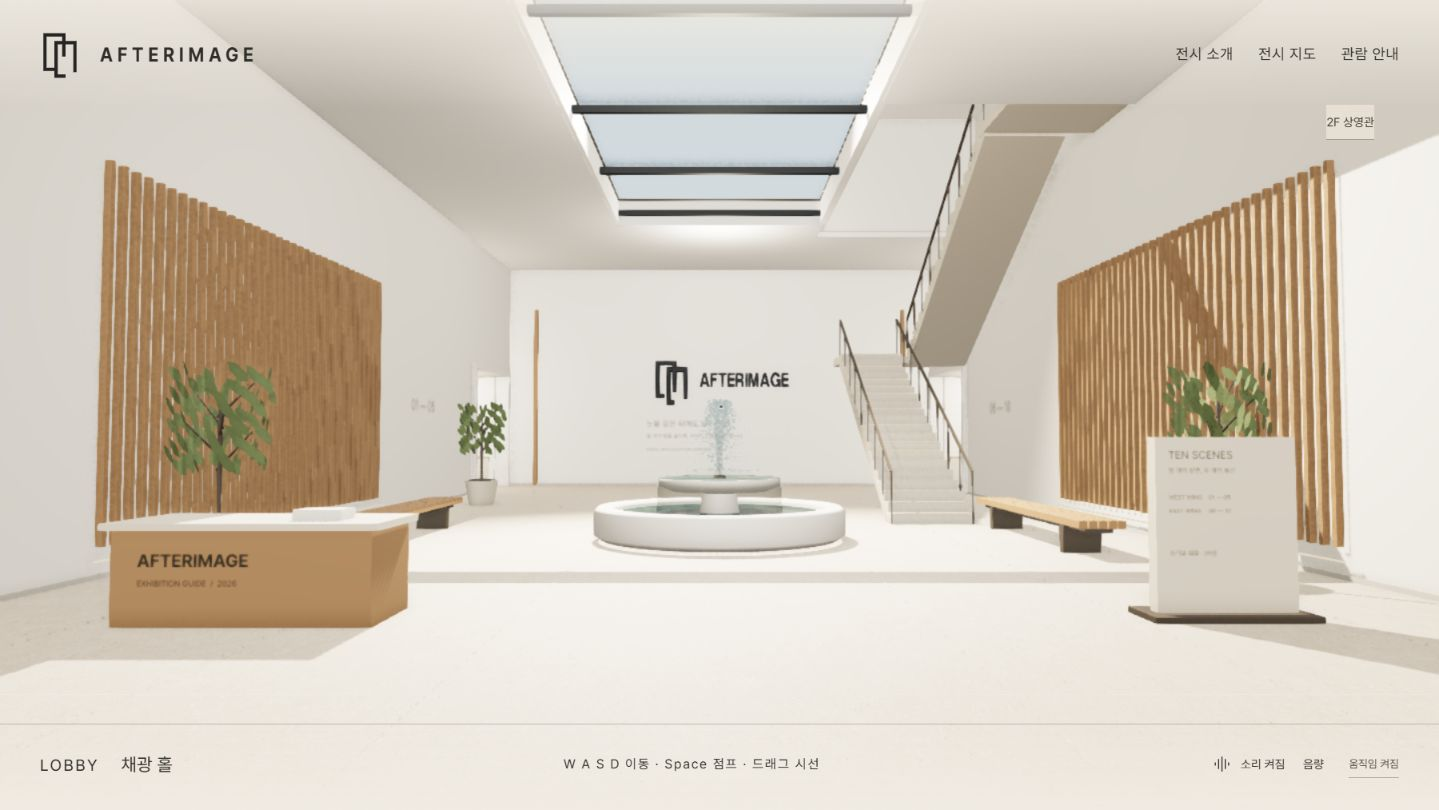
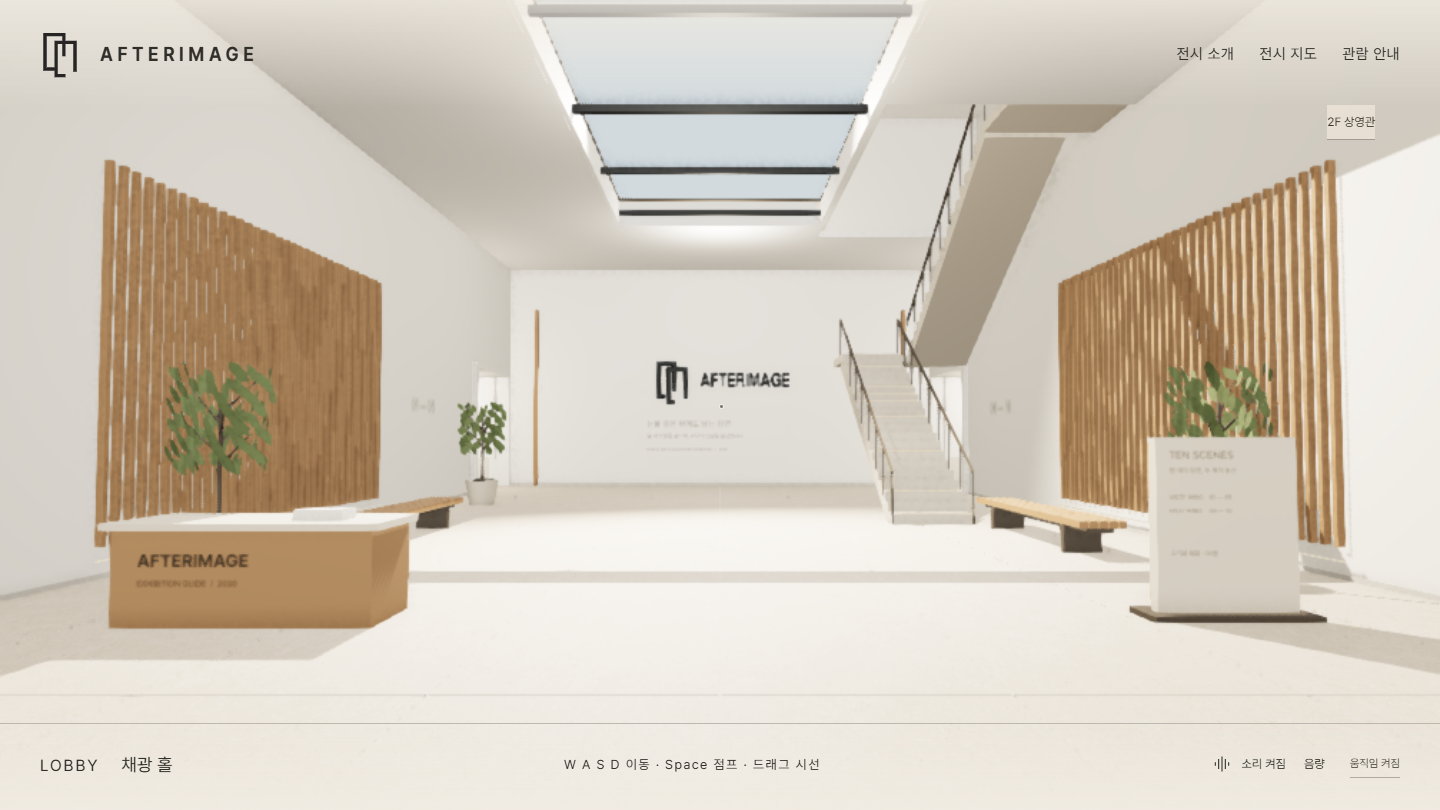
Remove lobby fountain and water ambience

diff --git a/src/Introduction.jsx b/src/Introduction.jsx
@@ -25,12 +25,12 @@ export default function Introduction({onClose,onEnter,onGo,ready,failed,sound}){
   <div className="case-top"><span>AFTERIMAGE</span><button onClick={onClose}>전시로 돌아가기</button></div>
   <nav className="case-index" aria-label="전시 제작 과정">{chapters.map((name,i)=><button key={name} onClick={()=>jump(i)} aria-current={active===i?'step':undefined}>{String(i+1).padStart(2,'0')} {name}</button>)}</nav>
   <div className="case-content">
-   <section className="case-cover" data-chapter="0"><h1>AFTERIMAGE</h1><div className="case-tagline"><b>잔상</b><p>눈을 감은 뒤에도 남는 열 개의 장면.</p></div><img className="case-wide" src={assetUrl('/process/atrium.png?v=lobby-fountain-v11')} alt="중앙의 흐르는 분수와 긴 천창, 목재 루버와 벤치, 식재와 안내 가구가 있는 실제 채광 홀" fetchPriority="high"/><div className="case-metadata"><span>3D WEB EXHIBITION</span><span>2026</span><span>기획 · 브랜딩 · 디자인 · 개발</span><button className="case-outline" disabled={!ready||failed} onClick={onEnter}>전시 입장</button></div><h2>웹을 읽는 대신, 공간을 걷다.</h2><p className="case-lead">채광 홀과 두 개의 전시 동, 열 개의 방과 스무 점의 작품, 2층의 상영관. 화면을 넘기는 대신 직접 걷고, 시선을 돌리고, 작품을 다른 각도에서 감상하는 디지털 전시입니다.</p></section>
+   <section className="case-cover" data-chapter="0"><h1>AFTERIMAGE</h1><div className="case-tagline"><b>잔상</b><p>눈을 감은 뒤에도 남는 열 개의 장면.</p></div><img className="case-wide" src={assetUrl('/process/atrium.png?v=open-atrium-v12')} alt="긴 천창 아래 열린 중앙 동선과 목재 루버, 벤치, 식재와 안내 가구가 있는 실제 채광 홀" fetchPriority="high"/><div className="case-metadata"><span>3D WEB EXHIBITION</span><span>2026</span><span>기획 · 브랜딩 · 디자인 · 개발</span><button className="case-outline" disabled={!ready||failed} onClick={onEnter}>전시 입장</button></div><h2>웹을 읽는 대신, 공간을 걷다.</h2><p className="case-lead">채광 홀과 두 개의 전시 동, 열 개의 방과 스무 점의 작품, 2층의 상영관. 화면을 넘기는 대신 직접 걷고, 시선을 돌리고, 작품을 다른 각도에서 감상하는 디지털 전시입니다.</p></section>
    <section className="case-section" data-chapter="1">{title(1,'BRIEF','작품만큼, 관람의 경험도.')}<div className="case-two"><p className="case-lead">감상의 깊이는 공간에서,<br/>경험의 밀도는 반응에서.</p><p>AFTERIMAGE는 가상의 디지털 아트와 입체 조형을 위한 웹 전시입니다. 관람자가 작품을 더 가까이, 다른 각도에서 보고 싶어지는 순간에 집중했습니다. 이동과 시선, 회전과 소리가 하나의 관람 흐름으로 이어지도록 설계했습니다.</p></div><div className="case-decisions">{[['평범한 탐색','직접 걷고 둘러보는 공간','W A S D와 모바일 조이스틱, 드래그 시선, 점프'],['수동적인 감상','내가 선택하는 작품의 각도','실제 3D 조각의 회전, 회화 확대'],['단절된 조작','입력과 움직임 사이의 여유','드래그 후 감속, 회전의 부드러운 시작과 정지'],['반복되는 장식','작품을 위한 담백한 인터페이스','프리텐다드, 직접적인 버튼 이름, 최소한의 선']].map(([before,after,how])=><div key={before}><span>{before}</span><b>{after}</b><p>{how}</p></div>)}</div><small className="case-note">설계 기준: 풍부한 반응, 작품과 연결된 아이덴티티, 누구나 이해할 수 있는 조작.</small></section>
    <section className="case-section" data-chapter="2">{title(2,'IDENTITY','겹쳐진 문, 남겨진 형태.')}<div className="case-two"><p className="case-lead">본 장면과 남은 장면 사이.<br/>두 개의 어긋난 문틀.</p><p>잔상을 겹친 프레임으로 표현했습니다. 화면의 마크, 워드마크와 공간의 입체 사인은 같은 형태를 공유합니다. 이미지와 3D 파일을 따로 내려받아 다른 매체에서도 사용할 수 있습니다.</p></div><div className="case-identity"><div><img src={assetUrl('/logo.svg')} alt="두 개의 어긋난 문틀과 AFTERIMAGE 워드마크"/><span>VECTOR / SVG</span></div><div className="case-logo-study"><Suspense fallback={<p>입체 로고 준비 중</p>}><LogoStudy/></Suspense><span>3D / 천천히 회전 · 드래그하여 감상</span></div></div><div className="case-downloads"><a href={assetUrl('/logo.svg')} download>SVG 로고 저장</a><a href={assetUrl('/logo.glb')} download>3D 로고 저장</a></div><div className="case-concept-pair"><img src={shot(0)} alt="실제로 구현된 두 문틀 조각" loading="lazy"/><p>다음 장면을 떠올리는 입구.<br/>로고와 조각을 하나의 공간 언어로 연결했습니다.</p></div></section>
    <section className="case-section" data-chapter="3">{title(3,'DESIGN SYSTEM','공간은 풍부하게, 화면은 차분하게.')}<div className="case-palette">{[['#181A19','Charcoal'],['#ECE5D8','Ivory / 벽'],['#D9D3C8','Limestone / 바닥'],['#C3A379','Bronze / 작품'],['#426393','Blue / 작품']].map(([hex,label])=><div key={hex}><i style={{background:hex}}/><span>{label}</span><small>{hex}</small></div>)}</div><div className="case-type"><div><span>TYPOGRAPHY</span><h3>Pretendard</h3><p>작품 설명과 조작 안내를 명확하게 전달하는 글꼴.</p></div><div><p style={{fontWeight:900}}>잔상 AFTERIMAGE <small>Black / 900</small></p><p style={{fontWeight:700}}>열 개의 장면 <small>Bold / 700</small></p><p>서두르지 않고, 원하는 방향으로. <small>Regular / 400</small></p></div></div><div className="case-component-study"><span>COMPONENTS IN USE</span><button className="entry" disabled={!ready||failed} onClick={onEnter}>전시 입장</button><button className="case-outline" disabled={!ready||failed} onClick={()=>onGo(selected)}>선택한 방 관람</button><button className="case-text" onClick={sound.toggle} aria-pressed={sound.enabled}>{sound.enabled?'소리 끄기':'소리 켜기'}</button></div></section>
-   <section className="case-section" data-chapter="4">{title(4,'EXPERIENCE','하나의 입구, 여러 방식의 관람.')}<ol className="case-flow"><li><span>01</span>전시 입장</li><li><span>02</span>걷기 · 둘러보기</li><li><span>03</span>작품 선택</li><li><span>04</span>조각 회전 · 회화 확대</li></ol><p className="case-flow-note">높은 천장의 채광 홀에서 01–05와 06–10 전시 동으로 이어집니다. 방의 크기와 높이를 달리하고, 꺾이는 복도를 지나 홀로 돌아오는 두 순환 동선으로 설계했습니다. 홀에는 물이 흐르는 석재 분수와 목재 루버, 벤치, 식재와 안내 가구를 두어 머무는 공간을 만들었습니다. 전시실에는 식재와 러그, 독서용 테이블과 조명, 도자기와 도록을 놓은 콘솔을 배치했습니다. 복도의 부조와 선반, 화분과 휴식 벤치가 방 사이의 경험을 이어줍니다. 홀의 계단실과 지붕이 있는 연결 통로를 지나면 2층 상영관으로 이어집니다. 벤치와 의자에서는 앉아 공간과 작품을 감상할 수 있습니다. 전시 지도에서는 원하는 방이나 작품, 상영관으로 바로 이동할 수 있습니다.</p><div className="case-room-preview"><div><ExhibitionPlan className="case-plan" selected={selected} onSelect={setSelected}/><div className="case-room-tabs" aria-label="미리 볼 전시실">{rooms.map(r=><button key={r.id} aria-pressed={selected===r.id} onClick={()=>setSelected(r.id)}>{r.number}<span>{r.title}</span></button>)}</div></div><figure><img key={selected} src={shot(selected)} alt={`${rooms[selected].number} ${rooms[selected].title} 실제 렌더링`} loading="lazy"/><figcaption><div><span>{rooms[selected].number} / {String(rooms.length).padStart(2,'0')}</span><h3>{rooms[selected].title}</h3><small>{rooms[selected].en}</small></div><button className="case-outline" disabled={!ready||failed} onClick={()=>onGo(selected)}>이 방 관람</button></figcaption></figure></div><figure className="case-cinema"><img className="case-wide" src={assetUrl('/process/cinema.png?v=cinema-seating-v7')} alt="월넛 흡음 벽과 계단식 좌석이 있는 실제 2층 상영관, 입체 금속 리본 영상이 보이는 대형 스크린" loading="lazy"/><figcaption><div><span>2F / SCREENING HALL</span><h3>마지막 장면은, 앉아서.</h3><p>문을 지나 입체 리본이 펼쳐지고, 빛의 입자로 여운을 남기는 세 장면의 48초 영상 ‘여운의 문’. 부드러운 음악과 함께 반복 상영합니다. 좌석에 실제로 앉아 낮아진 시점에서 감상합니다. 영상과 음악은 이 전시를 위해 제작했습니다.</p></div><button className="case-outline" disabled={!ready||failed} onClick={()=>onGo(CINEMA_ID)}>상영관 입장</button></figcaption></figure></section>
-   <section className="case-section" data-chapter="5">{title(5,'INTERACTION','움직임이 남기는 감각.')}<div className="case-interaction-screens"><figure><img src={assetUrl('/process/desktop-inspector.png?v=cinema-seating-v7')} alt="실제 데스크톱 조각 감상 화면" loading="lazy"/><figcaption><b>01 — 작품을 드래그하고 회전하기</b><p>시선과 작품 회전에 감속을 적용했습니다. 시선 초기화와 회전 정지는 항상 직접 선택할 수 있습니다.</p></figcaption></figure><figure><img src={assetUrl('/process/mobile-walk.png?v=spatial-furnishing-v8')} alt="모바일 화면의 이동 패드와 3D 전시" loading="lazy"/><figcaption><b>02 — 두 손으로 공간을 둘러보기</b><p>왼쪽은 조이스틱 이동, 끝까지 밀면 달리기. 오른쪽은 시선과 점프. 작은 화면에서도 작품 선택과 전시 지도를 함께 제공합니다.</p></figcaption></figure></div><div className="case-sound-study"><div><h3>03 — 방마다 다른 여운</h3><p>전시를 위해 만든 따뜻한 피아노 선율과 또렷한 발소리. 로비 분수에 다가가면 물소리가 부드럽게 커집니다.<br/>첫 조작부터 시작하며, 언제든 끄거나 음량을 조절할 수 있습니다. 상영관에서는 전시 배경음을 낮추고 영상의 음악을 들려줍니다.</p></div><button className="case-outline" onClick={sound.toggle} aria-pressed={sound.enabled}>{sound.enabled?'소리 끄기':'소리 켜기'}</button><label htmlFor="case-volume">음량 <output>{Math.round(sound.volume*100)}%</output><input id="case-volume" type="range" min="0" max="1" step=".01" value={sound.volume} onChange={e=>sound.changeVolume(Number(e.target.value))}/></label>{sound.error&&<p role="status">{sound.error}</p>}</div><div className="case-validation"><span>IMPLEMENTATION REVIEW</span><p>데스크톱·태블릿·모바일 크기에서 방 이동, 계단으로 2층 오르내리기, 드래그와 회전, 회화 확대, 벤치·의자 앉기와 일어나기, 영상 재생·탐색과 소리 조절을 점검했습니다. 작은 화면의 가로 넘침과 입장 위치의 이동 문제를 수정하고, 움직임 감소 설정에서도 관람 기능을 사용할 수 있도록 했습니다.</p><p className="case-note">현재 주름의 조형 디테일과 공간의 조명에는 최초 시안과 차이가 남아 있습니다. 이 프로젝트의 시안은 제작 방향을 보여주는 이미지이며, 실제 전시 화면과 구분됩니다.</p></div></section>
+   <section className="case-section" data-chapter="4">{title(4,'EXPERIENCE','하나의 입구, 여러 방식의 관람.')}<ol className="case-flow"><li><span>01</span>전시 입장</li><li><span>02</span>걷기 · 둘러보기</li><li><span>03</span>작품 선택</li><li><span>04</span>조각 회전 · 회화 확대</li></ol><p className="case-flow-note">높은 천장의 채광 홀에서 01–05와 06–10 전시 동으로 이어집니다. 방의 크기와 높이를 달리하고, 꺾이는 복도를 지나 홀로 돌아오는 두 순환 동선으로 설계했습니다. 홀에는 목재 루버, 벤치, 식재와 안내 가구를 두고 중앙을 열린 이동 공간으로 구성했습니다. 전시실에는 식재와 러그, 독서용 테이블과 조명, 도자기와 도록을 놓은 콘솔을 배치했습니다. 복도의 부조와 선반, 화분과 휴식 벤치가 방 사이의 경험을 이어줍니다. 홀의 계단실과 지붕이 있는 연결 통로를 지나면 2층 상영관으로 이어집니다. 벤치와 의자에서는 앉아 공간과 작품을 감상할 수 있습니다. 전시 지도에서는 원하는 방이나 작품, 상영관으로 바로 이동할 수 있습니다.</p><div className="case-room-preview"><div><ExhibitionPlan className="case-plan" selected={selected} onSelect={setSelected}/><div className="case-room-tabs" aria-label="미리 볼 전시실">{rooms.map(r=><button key={r.id} aria-pressed={selected===r.id} onClick={()=>setSelected(r.id)}>{r.number}<span>{r.title}</span></button>)}</div></div><figure><img key={selected} src={shot(selected)} alt={`${rooms[selected].number} ${rooms[selected].title} 실제 렌더링`} loading="lazy"/><figcaption><div><span>{rooms[selected].number} / {String(rooms.length).padStart(2,'0')}</span><h3>{rooms[selected].title}</h3><small>{rooms[selected].en}</small></div><button className="case-outline" disabled={!ready||failed} onClick={()=>onGo(selected)}>이 방 관람</button></figcaption></figure></div><figure className="case-cinema"><img className="case-wide" src={assetUrl('/process/cinema.png?v=cinema-seating-v7')} alt="월넛 흡음 벽과 계단식 좌석이 있는 실제 2층 상영관, 입체 금속 리본 영상이 보이는 대형 스크린" loading="lazy"/><figcaption><div><span>2F / SCREENING HALL</span><h3>마지막 장면은, 앉아서.</h3><p>문을 지나 입체 리본이 펼쳐지고, 빛의 입자로 여운을 남기는 세 장면의 48초 영상 ‘여운의 문’. 부드러운 음악과 함께 반복 상영합니다. 좌석에 실제로 앉아 낮아진 시점에서 감상합니다. 영상과 음악은 이 전시를 위해 제작했습니다.</p></div><button className="case-outline" disabled={!ready||failed} onClick={()=>onGo(CINEMA_ID)}>상영관 입장</button></figcaption></figure></section>
+   <section className="case-section" data-chapter="5">{title(5,'INTERACTION','움직임이 남기는 감각.')}<div className="case-interaction-screens"><figure><img src={assetUrl('/process/desktop-inspector.png?v=cinema-seating-v7')} alt="실제 데스크톱 조각 감상 화면" loading="lazy"/><figcaption><b>01 — 작품을 드래그하고 회전하기</b><p>시선과 작품 회전에 감속을 적용했습니다. 시선 초기화와 회전 정지는 항상 직접 선택할 수 있습니다.</p></figcaption></figure><figure><img src={assetUrl('/process/mobile-walk.png?v=spatial-furnishing-v8')} alt="모바일 화면의 이동 패드와 3D 전시" loading="lazy"/><figcaption><b>02 — 두 손으로 공간을 둘러보기</b><p>왼쪽은 조이스틱 이동, 끝까지 밀면 달리기. 오른쪽은 시선과 점프. 작은 화면에서도 작품 선택과 전시 지도를 함께 제공합니다.</p></figcaption></figure></div><div className="case-sound-study"><div><h3>03 — 방마다 다른 여운</h3><p>전시를 위해 만든 따뜻한 피아노 선율과 또렷한 발소리.<br/>첫 조작부터 시작하며, 언제든 끄거나 음량을 조절할 수 있습니다. 상영관에서는 전시 배경음을 낮추고 영상의 음악을 들려줍니다.</p></div><button className="case-outline" onClick={sound.toggle} aria-pressed={sound.enabled}>{sound.enabled?'소리 끄기':'소리 켜기'}</button><label htmlFor="case-volume">음량 <output>{Math.round(sound.volume*100)}%</output><input id="case-volume" type="range" min="0" max="1" step=".01" value={sound.volume} onChange={e=>sound.changeVolume(Number(e.target.value))}/></label>{sound.error&&<p role="status">{sound.error}</p>}</div><div className="case-validation"><span>IMPLEMENTATION REVIEW</span><p>데스크톱·태블릿·모바일 크기에서 방 이동, 계단으로 2층 오르내리기, 드래그와 회전, 회화 확대, 벤치·의자 앉기와 일어나기, 영상 재생·탐색과 소리 조절을 점검했습니다. 작은 화면의 가로 넘침과 입장 위치의 이동 문제를 수정하고, 움직임 감소 설정에서도 관람 기능을 사용할 수 있도록 했습니다.</p><p className="case-note">현재 주름의 조형 디테일과 공간의 조명에는 최초 시안과 차이가 남아 있습니다. 이 프로젝트의 시안은 제작 방향을 보여주는 이미지이며, 실제 전시 화면과 구분됩니다.</p></div></section>
    <div className="case-end"><p>열 개의 방, 당신의 속도로.<small>작품과 작가는 가상입니다. 회화·시안은 AI로 제작했으며, 공간·조각·상호작용과 상영 영상·음악은 코드로 구현했습니다.</small></p><button className="entry" disabled={!ready||failed} onClick={()=>onGo(ATRIUM_ID)}>처음부터 관람</button></div>
   </div>
  </section>;

diff --git a/src/scene.js b/src/scene.js
@@ -22,7 +22,6 @@ import {lightingRig} from './lighting-rig';
 import {roomLighting} from './room-lighting';
 import {preparationFrame} from './preparation-scheduler';
 import {buildingEnvelope} from './building-envelope';
-import {createLobbyFountain} from './lobby-fountain';
 
 export async function createExhibition(host,events,{signal}={}){
  await preparationFrame();if(signal?.aborted)return null;
@@ -97,7 +96,6 @@ export async function createExhibition(host,events,{signal}={}){
  }
  const hall=new T.Group();scene.add(hall);groups.push(hall);floorRects.push({x:atrium.x,z:atrium.z,w:atrium.w,d:atrium.d});
  roomFloors.push(galleryFloor(hall,atrium,mats,cube));obstacles.push(...atriumShell(hall,atrium,doors[ATRIUM_ID],mats,cube,label));hallDetails(hall,atrium,mats,cube,obstacles,seats);lobbyWallArtwork(hall,mats,cube,artLoader);
- const fountain=createLobbyFountain(hall,mats,obstacles);
  const stairs=cinemaStairs(hall,mats,cube,obstacles,floorRects,label);
  const theatre=createCinema(scene,mats,cube,label,artLoader,floorRects,obstacles,seats);groups.push(theatre.root);
  buildingEnvelope(scene,mats,cube,obstacles);
@@ -108,8 +106,6 @@ export async function createExhibition(host,events,{signal}={}){
  let reflectionDirty=true,reflectionNext=0,reflector=null;if(host.clientWidth>700){reflector=new Reflector(new T.PlaneGeometry(maxX-minX+22,maxZ-minZ+18),{clipBias:.002,textureWidth:640,textureHeight:480,multisample:0,color:0x9a9d96});reflector.position.set((minX+maxX)/2,-.012,(minZ+maxZ)/2);reflector.rotation.x=-Math.PI/2;const reflect=reflector.onBeforeRender;reflector.onBeforeRender=function(renderer,scene,...args){if(!scene.overrideMaterial&&(reflectionDirty||performance.now()>=reflectionNext)){reflectionDirty=false;reflectionNext=performance.now()+32;reflect.call(this,renderer,scene,...args);}};reflector.material.fragmentShader=reflector.material.fragmentShader.replace('vec4 base = texture2DProj( tDiffuse, vUv );','vec4 base = texture2DProj( tDiffuse, vUv ) * .4; base += texture2DProj( tDiffuse, vUv + vec4(.004*vUv.w,0.,0.,0.) ) * .15; base += texture2DProj( tDiffuse, vUv - vec4(.004*vUv.w,0.,0.,0.) ) * .15; base += texture2DProj( tDiffuse, vUv + vec4(0.,.004*vUv.w,0.,0.) ) * .15; base += texture2DProj( tDiffuse, vUv - vec4(0.,.004*vUv.w,0.,0.) ) * .15;');reflector.material.fragmentShader=reflector.material.fragmentShader.replace('gl_FragColor = vec4( blendOverlay( base.rgb, color ), 1.0 );','gl_FragColor = vec4(mix(vec3(dot(base.rgb,vec3(.2126,.7152,.0722))),base.rgb,.65)*color,1.0);');scene.add(reflector);roomFloors.forEach(f=>{f.material.transparent=true;f.material.opacity=.95;f.material.depthWrite=false;});}
  // Logo emblem and letterforms are actual extruded solid geometry on the entrance wall.
  const sign=new T.Group();sign.position.set(-7.65,4.4,4);sign.rotation.y=Math.PI/2;groups[0].add(sign);for(let i=0;i<2;i++){const m=extrudePortal(mats.black,.32,.59,.045,.045,true);m.position.set(i*.18,-i*.11,0);sign.add(m);}new FontLoader(manager).load(assetUrl('/fonts/helvetiker_bold.typeface.json'),font=>{const geo=new TextGeometry('AFTERIMAGE',{font,size:.23,depth:.025,curveSegments:5,bevelEnabled:false});const word=new T.Mesh(geo,mats.black);word.position.set(.72,.17,.02);word.scale.x=.72;sign.add(word);const hallSign=sign.clone(true);hallSign.position.set(-2.3,3.2,-16.62);hallSign.rotation.y=0;hallSign.scale.setScalar(2.2);hall.add(hallSign);});
- let waterTime=0;
- const waterState=()=>{const visible=presentationVisible&&!document.hidden&&current===ATRIUM_ID;events.water?.(camera.position.x,camera.position.y,camera.position.z,camera.rotation.y,visible);host.dataset.waterProximity=visible?Math.hypot(camera.position.x,camera.position.y-.6,camera.position.z).toFixed(2):'off';};
  let targetFov=camera.fov;
  function updateFov(immediate=false){targetFov=current===CINEMA_ID?T.MathUtils.radToDeg(2*Math.atan(Math.tan(T.MathUtils.degToRad(27))/camera.aspect)):(host.clientWidth<600?72:50);if(immediate||!prepared||!motion){camera.fov=targetFov;camera.updateProjectionMatrix();}}
  function activateLighting(id){rig.activate(id);if(reflector)reflector.visible=host.clientWidth>700&&id!==CINEMA_ID;lightMood=roomLighting[id];moodSky.set(lightMood.sky).lerp(new T.Color(0xfff7ec),id===CINEMA_ID?0:.48);moodGround.set(lightMood.ground).lerp(new T.Color(0xc8b8a4),id===CINEMA_ID?0:.35);if(!prepared||!motion)blendLighting(0);host.dataset.lighting=lightMood.name;scene.background.set(id===CINEMA_ID?0x101014:0xece5d8);scene.fog.color.copy(scene.background);updateFov();theatre.film.enter(prepared&&id===CINEMA_ID);}
@@ -193,10 +189,9 @@ export async function createExhibition(host,events,{signal}={}){
  camera.position.y=(seated?seated.eye:eyeHeight)+groundHeight+jumpHeight;const occupied=zones.find(r=>groundHeight>=(r.y||0)-.1&&groundHeight<(r.y||0)+r.h&&Math.abs(camera.position.x-r.x)<r.w/2-.05&&Math.abs(camera.position.z-r.z)<r.d/2-.05);if(occupied)updateRoom(occupied.id);else if(groundHeight>=8&&camera.position.x<12.05&&camera.position.x>5.3&&camera.position.z>-2.65&&camera.position.z<-.75)updateRoom(ATRIUM_ID);lastScan+=dt;if(lastScan>.18){scan();lastScan=0;}}
  if(inspect&&inspect.kind==='sculpture'){const desired=rotate&&!orbit.state.held ? .24:0;rotationSpeed=motion?T.MathUtils.damp(rotationSpeed,desired,5,dt):desired;orbit.tick(dt,motion,rotationSpeed);inspect.angle=orbit.state.x;inspect.tilt=orbit.state.y;updateInspect();}
  if(transition){transition.t=Math.min(1,transition.t+dt/(transition.duration||1.2));const t=1-Math.pow(1-transition.t,3);camera.position.lerpVectors(transition.from,transition.to,t);if(transition.t===1)transition=null;}
- if(hall.visible)fountain.update(elapsed,motion);waterTime+=dt;if(waterTime>.1){waterTime=0;waterState();}
  animations.forEach(({id,updates})=>{if(groups[id].visible&&Math.abs(rooms[id].x-camera.position.x)<26&&Math.abs(rooms[id].z-camera.position.z)<26)updates.forEach(fn=>fn(elapsed));});shadowTime+=dt;if(motion&&shadowTime>.12&&animations.some(a=>a.id===current&&a.updates.length)){renderer.shadowMap.needsUpdate=true;shadowTime=0;}blendLighting(dt);if(Math.abs(camera.fov-targetFov)>.01){camera.fov=motion?T.MathUtils.damp(camera.fov,targetFov,6,dt):targetFov;camera.updateProjectionMatrix();}effects.render();if(now>perfNext){perfTime+=now-lastFrameTime;perfFrames++;if(perfTime>=900){if(perfTime/perfFrames>19.5&&renderScale>.71){renderScale=Math.max(.7,renderScale*.9);setRenderResolution();}perfTime=perfFrames=0;perfNext=now+1200;}}host.dataset.seated=String(!!seated);host.dataset.seat=seated?.id||'';host.dataset.position=`${camera.position.x.toFixed(2)},${camera.position.z.toFixed(2)}`;host.dataset.height=camera.position.y.toFixed(3);host.dataset.floor=groundHeight.toFixed(3);host.dataset.jumping=String(jumpHeight>0||jumpVelocity>0);host.dataset.view=`${camera.rotation.y.toFixed(3)},${camera.rotation.x.toFixed(3)}`;}}
  buildingDone=true;resize();tick();if(assetBatchDone)prepare();
- return {go,jump,toggleSeat(){if(!enabled)return;if(seated)stand();else if(nearSeat)sit(nearSeat);},film:theatre.film,watchFilm(){go(CINEMA_ID);const seat=seats.find(s=>s.id===(host.clientWidth<700?'cinema-0':'cinema-16'));sit(seat,seat.stand);canvas.focus({preventScroll:true});},enter(){if(motion)transition={from:camera.position.clone(),to:camera.position.clone().add(new T.Vector3(.3,0,-.4)),t:0};canvas.focus({preventScroll:true});},setEnabled(v){enabled=v;if(!v)clear();else canvas.focus({preventScroll:true});},setMotion(v){motion=v;clear();},setPresentationVisible(v){presentationVisible=v;theatre.film.visible(v);waterState();},inspect:inspectArt,rotate:v=>{rotate=v;orbit.state.vx=orbit.state.vy=0;},resetInspect,pickNearest:()=>showArt(nearest),setTouchVector(side,forward){if(enabled)touch={side:T.MathUtils.clamp(side,-1,1),forward:T.MathUtils.clamp(forward,-1,1)};},stopTouch(){touch=null;},dispose(){disposed=true;events.water?.(0,0,0,0,false);theatre.film.dispose();cancelAnimationFrame(frame);observer.disconnect();canvas.removeEventListener('pointerdown',pointerDown);canvas.removeEventListener('pointermove',pointerMove);canvas.removeEventListener('pointerup',pointerUp);canvas.removeEventListener('pointercancel',clear);window.removeEventListener('keydown',keydown);window.removeEventListener('keyup',keyup);window.removeEventListener('blur',clear);document.removeEventListener('visibilitychange',clear);const geometries=new Set(),materials=new Set(),textures=new Set();scene.traverse(o=>{if(o.geometry)geometries.add(o.geometry);if(o.material)(Array.isArray(o.material)?o.material:[o.material]).forEach(m=>{materials.add(m);if(o.customDepthMaterial)materials.add(o.customDepthMaterial);Object.values(m).forEach(t=>{if(t?.isTexture)textures.add(t);});});});geometries.forEach(g=>g.dispose());materials.forEach(m=>m.dispose());textures.forEach(t=>t.dispose());reflector?.getRenderTarget().dispose();rig.shadowSpot.shadow.map?.dispose();env.dispose();pmrem.dispose();effects.dispose();renderer.dispose();canvas.remove();}};
+ return {go,jump,toggleSeat(){if(!enabled)return;if(seated)stand();else if(nearSeat)sit(nearSeat);},film:theatre.film,watchFilm(){go(CINEMA_ID);const seat=seats.find(s=>s.id===(host.clientWidth<700?'cinema-0':'cinema-16'));sit(seat,seat.stand);canvas.focus({preventScroll:true});},enter(){if(motion)transition={from:camera.position.clone(),to:camera.position.clone().add(new T.Vector3(.3,0,-.4)),t:0};canvas.focus({preventScroll:true});},setEnabled(v){enabled=v;if(!v)clear();else canvas.focus({preventScroll:true});},setMotion(v){motion=v;clear();},setPresentationVisible(v){presentationVisible=v;theatre.film.visible(v);},inspect:inspectArt,rotate:v=>{rotate=v;orbit.state.vx=orbit.state.vy=0;},resetInspect,pickNearest:()=>showArt(nearest),setTouchVector(side,forward){if(enabled)touch={side:T.MathUtils.clamp(side,-1,1),forward:T.MathUtils.clamp(forward,-1,1)};},stopTouch(){touch=null;},dispose(){disposed=true;theatre.film.dispose();cancelAnimationFrame(frame);observer.disconnect();canvas.removeEventListener('pointerdown',pointerDown);canvas.removeEventListener('pointermove',pointerMove);canvas.removeEventListener('pointerup',pointerUp);canvas.removeEventListener('pointercancel',clear);window.removeEventListener('keydown',keydown);window.removeEventListener('keyup',keyup);window.removeEventListener('blur',clear);document.removeEventListener('visibilitychange',clear);const geometries=new Set(),materials=new Set(),textures=new Set();scene.traverse(o=>{if(o.geometry)geometries.add(o.geometry);if(o.material)(Array.isArray(o.material)?o.material:[o.material]).forEach(m=>{materials.add(m);if(o.customDepthMaterial)materials.add(o.customDepthMaterial);Object.values(m).forEach(t=>{if(t?.isTexture)textures.add(t);});});});geometries.forEach(g=>g.dispose());materials.forEach(m=>m.dispose());textures.forEach(t=>t.dispose());reflector?.getRenderTarget().dispose();rig.shadowSpot.shadow.map?.dispose();env.dispose();pmrem.dispose();effects.dispose();renderer.dispose();canvas.remove();}};
 }
 
 

diff --git a/src/main.jsx b/src/main.jsx
@@ -26,7 +26,7 @@ function Dialog({title,onClose,children,className=''}){
 function Map({current,onGo,onArt,onClose}){
  return <Dialog title="전시 지도" onClose={onClose} className="map-modal"><p className="dialog-intro">1층의 두 전시 동과 2층 상영관. 원하는 곳부터 둘러보세요.</p><div className="floorplan"><ExhibitionPlan selected={current} onSelect={onGo} onAtrium={()=>onGo(ATRIUM_ID)} onCinema={()=>onGo(CINEMA_ID)}/></div><div className="room-list">{rooms.map(r=><div key={r.id} className={`room-row ${current===r.id?'current':''}`}><button className="room-go" onClick={()=>onGo(r.id)} aria-label={`${r.number} ${r.title} 이동`}><span>{r.number}</span><span>{r.title}<small>{r.en}</small></span><span className="room-status">{current===r.id?'현재 위치':'입장'}</span></button><button className="catalog" onClick={()=>onArt(r.id,'sculpture')}>조각 감상</button><button className="catalog" onClick={()=>onArt(r.id,'painting')}>회화 감상</button></div>)}</div><button className="cinema-map-link" onClick={()=>onGo(CINEMA_ID)} aria-label="2F 상영관 이동"><b>2F</b><span>상영관<small>여운의 문 · 48초 오리지널 영상</small></span><span>입장</span></button></Dialog>
 }
-function Guide({onClose,motion,onMotion,sound}){return <Dialog title="관람 안내" onClose={onClose}><p className="dialog-intro">서두르지 않고, 원하는 방향으로.</p><dl className="guide"><div><dt>걷기</dt><dd><kbd>W A S D</kbd> 또는 방향키<br/>빠르게 걷기 <kbd>Shift</kbd><br/>점프 <kbd>Space</kbd> / 모바일 점프 버튼</dd></div><div><dt>둘러보기</dt><dd>화면을 드래그해서 시선을 돌려요.<br/>모바일은 왼쪽 조이스틱, 오른쪽 화면 드래그.<br/>조금 밀면 걷기, 끝까지 밀면 달리기.</dd></div><div><dt>작품 감상</dt><dd>조각이나 회화를 클릭해요.<br/>가까운 작품은 <kbd>E</kbd>로도 선택할 수 있어요.</dd></div><div><dt>앉기</dt><dd>벤치나 의자 가까이에서 앉기 버튼 또는 <kbd>E</kbd>를 눌러요.<br/>이동·점프 입력이나 일어나기 버튼으로 다시 서요.<br/>상영관의 좌석에서 보기로도 앉을 수 있어요.</dd></div><div><dt>다른 방</dt><dd>문을 지나 복도로 이동하거나<br/>전시 지도에서 방을 선택해요.</dd></div><div><dt>상영관</dt><dd>채광 홀의 계단을 올라 2층으로 이동해요.<br/>전시 지도에서도 바로 입장할 수 있어요.<br/>영상의 재생·일시정지·탐색과 처음부터 보기가 가능해요.</dd></div><div><dt>움직임</dt><dd><button className="catalog" onClick={onMotion}>{motion?'작품 움직임 멈추기':'작품 움직임 재생'}</button></dd></div><div><dt>소리</dt><dd><button className="catalog" aria-pressed={sound.enabled} onClick={sound.toggle}>{sound.enabled?'소리 끄기':'소리 켜기'}</button><label className="volume-control" htmlFor="sound-volume">전체 음량 <output>{Math.round(sound.volume*100)}%</output><input id="sound-volume" type="range" min="0" max="1" step=".01" value={sound.volume} onChange={e=>sound.changeVolume(Number(e.target.value))}/></label><span className="sound-description">따뜻한 피아노 선율과 또렷한 발소리.<br/>로비 분수 가까이에서는 물소리가 들려요.<br/>다른 탭에서는 소리가 잠시 쉬어갑니다.</span>{sound.error&&<p className="sound-error" role="status">{sound.error}</p>}</dd></div></dl><p className="guide-note">모든 작품과 작가는 이 전시를 위해 만든 가상의 창작물입니다. 배경음은 이 전시를 위해 만든 피아노 계열의 선율입니다.</p></Dialog>}
+function Guide({onClose,motion,onMotion,sound}){return <Dialog title="관람 안내" onClose={onClose}><p className="dialog-intro">서두르지 않고, 원하는 방향으로.</p><dl className="guide"><div><dt>걷기</dt><dd><kbd>W A S D</kbd> 또는 방향키<br/>빠르게 걷기 <kbd>Shift</kbd><br/>점프 <kbd>Space</kbd> / 모바일 점프 버튼</dd></div><div><dt>둘러보기</dt><dd>화면을 드래그해서 시선을 돌려요.<br/>모바일은 왼쪽 조이스틱, 오른쪽 화면 드래그.<br/>조금 밀면 걷기, 끝까지 밀면 달리기.</dd></div><div><dt>작품 감상</dt><dd>조각이나 회화를 클릭해요.<br/>가까운 작품은 <kbd>E</kbd>로도 선택할 수 있어요.</dd></div><div><dt>앉기</dt><dd>벤치나 의자 가까이에서 앉기 버튼 또는 <kbd>E</kbd>를 눌러요.<br/>이동·점프 입력이나 일어나기 버튼으로 다시 서요.<br/>상영관의 좌석에서 보기로도 앉을 수 있어요.</dd></div><div><dt>다른 방</dt><dd>문을 지나 복도로 이동하거나<br/>전시 지도에서 방을 선택해요.</dd></div><div><dt>상영관</dt><dd>채광 홀의 계단을 올라 2층으로 이동해요.<br/>전시 지도에서도 바로 입장할 수 있어요.<br/>영상의 재생·일시정지·탐색과 처음부터 보기가 가능해요.</dd></div><div><dt>움직임</dt><dd><button className="catalog" onClick={onMotion}>{motion?'작품 움직임 멈추기':'작품 움직임 재생'}</button></dd></div><div><dt>소리</dt><dd><button className="catalog" aria-pressed={sound.enabled} onClick={sound.toggle}>{sound.enabled?'소리 끄기':'소리 켜기'}</button><label className="volume-control" htmlFor="sound-volume">전체 음량 <output>{Math.round(sound.volume*100)}%</output><input id="sound-volume" type="range" min="0" max="1" step=".01" value={sound.volume} onChange={e=>sound.changeVolume(Number(e.target.value))}/></label><span className="sound-description">따뜻한 피아노 선율과 또렷한 발소리.<br/>다른 탭에서는 소리가 잠시 쉬어갑니다.</span>{sound.error&&<p className="sound-error" role="status">{sound.error}</p>}</dd></div></dl><p className="guide-note">모든 작품과 작가는 이 전시를 위해 만든 가상의 창작물입니다. 배경음은 이 전시를 위해 만든 피아노 계열의 선율입니다.</p></Dialog>}
 function Zoom({art,onClose}){const ref=useRef(null);useEffect(()=>{const before=document.activeElement;ref.current?.focus();const key=e=>{if(e.key==='Escape'){e.stopPropagation();onClose();}if(e.key==='Tab'){e.preventDefault();ref.current?.focus();}};document.addEventListener('keydown',key,true);return()=>{document.removeEventListener('keydown',key,true);before?.focus();};},[]);return <div className="zoom" role="dialog" aria-modal="true" aria-label="회화 확대"><button ref={ref} onClick={onClose}>확대 닫기</button><img src={paintingUrl(art.id)} alt={art.name}/></div>}
 function App(){
  const [entered,setEntered]=useState(false),[ready,setReady]=useState(false),[failed,setFailed]=useState(false),[room,setRoom]=useState(ATRIUM_ID),[modal,setModal]=useState(()=>location.hash==='#about'?'about':null),[art,setArt]=useState(null),[rotating,setRotating]=useState(false),[hint,setHint]=useState(''),[motion,setMotion]=useState(()=>!matchMedia('(prefers-reduced-motion: reduce)').matches);
@@ -48,7 +48,7 @@ function App(){
  useEffect(()=>{api.current?.film?.sound(sound.enabled,sound.volume);},[sound.enabled,sound.volume,ready,room]);
  useEffect(()=>{const pref=matchMedia('(prefers-reduced-motion: reduce)'),handle=()=>setMotion(!pref.matches);pref.addEventListener('change',handle);return()=>pref.removeEventListener('change',handle);},[]);
  return <main className={`app ${entered?'entered':''} ${modal==='about'?'showing-about':''}`} data-room={room===ATRIUM_ID?0:room===CINEMA_ID?'cinema':room+1} data-zone={room===ATRIUM_ID?'atrium':room===CINEMA_ID?'cinema':'gallery'} data-ready={ready} data-sound={sound.state}>
-  <Suspense fallback={null}>{visualReady&&<Gallery api={api} onReady={()=>setReady(true)} onProgress={onProgress} onError={()=>setFailed(true)} onRoom={setRoom} onPick={pick} onHint={setHint} onStep={sound.step} onWater={sound.water} onSeat={setSeat}/>}</Suspense>
+  <Suspense fallback={null}>{visualReady&&<Gallery api={api} onReady={()=>setReady(true)} onProgress={onProgress} onError={()=>setFailed(true)} onRoom={setRoom} onPick={pick} onHint={setHint} onStep={sound.step} onSeat={setSeat}/>}</Suspense>
   {loadingShown&&<ExhibitionLoader progress={progress} ready={ready} failed={failed} onVisualReady={()=>setVisualReady(true)} onReveal={()=>{if(!failed&&modal!=='about')setEntered(true);}} onComplete={()=>{setLoadingShown(false);if(!failed&&modal!=='about'){setEntered(true);api.current?.enter();}}}/>}
   <header inert={loadingShown}><a className="brand" href="#" aria-label="AFTERIMAGE 잔상 처음으로" onClick={e=>{e.preventDefault();close();setEntered(false);api.current?.go(ATRIUM_ID);}}><img src={assetUrl('/mark.svg')} alt=""/><span>AFTERIMAGE</span></a><nav aria-label="전시 메뉴"><button onClick={()=>openMenu('about')}>전시 소개</button><button onClick={()=>openMenu('map')}>전시 지도</button><button onClick={()=>openMenu('guide')}>관람 안내</button></nav></header>
   {!entered&&<section className="intro" inert={loadingShown}><h1>잔상</h1><p>눈을 감은 뒤에도 남는<br className="mobile-break"/> 열 개의 장면.</p><button className="entry" disabled={!ready||failed} onClick={enter}>{failed?'3D 실행 불가':ready?'전시 입장':'공간 준비 중'}</button><button className="intro-about text-action" onClick={()=>openMenu('about')}>전시 소개</button></section>}

diff --git a/src/sound.js b/src/sound.js
@@ -1,12 +1,10 @@
 import {CINEMA_ID} from './cinema-layout';
-import {createFountainAudio} from './fountain-audio';
 import {DEFAULT_VOLUME,GALLERY_MUSIC_GAIN} from './audio-levels';
 // Original, warm felt-piano-style synthesis. Audio is enabled by default and
 // allocated only on the visitor's first gesture; no external music recording.
 export function createSound(onState){
  let context,master,filter,verb,noise,active=true,volume=DEFAULT_VOLUME,room=0;
  let scheduler,fadeTimer,nextBeat=0,beat=0,disposed=false,request=0,stepCount=0,film=null;
- let fountain,waterPosition=[0,1.75,15,0,false];
  const voices=new Set(),frequency=midi=>440*Math.pow(2,(midi-69)/12);
  // Cmaj9 / Fmaj9 / G6add9 / C6add9: open major voicings, no ominous drone.
  const chords=[[48,55,59,62,64],[53,60,64,67,69],[55,62,64,67,69],[48,55,60,62,69]];
@@ -33,7 +31,6 @@ export function createSound(onState){
   noise=context.createBuffer(1,Math.floor(context.sampleRate*.18),context.sampleRate);const samples=noise.getChannelData(0);
   for(let i=0;i<samples.length;i++)samples[i]=random()*Math.pow(1-i/samples.length,2.6);
   film?.connectAudio(context);
-  fountain=createFountainAudio(context,master);fountain.update(...waterPosition);
  }
  function schedule(){
   if(!active||context.state!=='running')return;
@@ -65,7 +62,6 @@ export function createSound(onState){
  document.addEventListener('visibilitychange',visibility);
  return {
   setEnabled,
-  water(...position){waterPosition=position;fountain?.update(...position);},
   attachFilm(value){film=value;if(context)film?.connectAudio(context);},
   activate(){if(active&&!disposed&&!document.hidden&&context?.state!=='running')return setEnabled(true);},
   setVolume(value){volume=Math.max(0,Math.min(1,value));if(context&&active)master.gain.setTargetAtTime(volume*(room===CINEMA_ID ? .12 : 1),context.currentTime,.08);},
@@ -81,6 +77,6 @@ export function createSound(onState){
    thud.connect(body);body.connect(master);thud.start(now);thud.stop(now+.14);voices.add(thud);
    thud.onended=()=>{voices.delete(thud);thud.disconnect();body.disconnect();};source.onended=()=>{voices.delete(source);source.disconnect();low.disconnect();gain.disconnect();pan.disconnect();};
   },
-  dispose(){disposed=true;active=false;clearInterval(scheduler);clearTimeout(fadeTimer);document.removeEventListener('visibilitychange',visibility);voices.forEach(v=>{try{v.stop();}catch{}});fountain?.dispose();context?.close();}
+  dispose(){disposed=true;active=false;clearInterval(scheduler);clearTimeout(fadeTimer);document.removeEventListener('visibilitychange',visibility);voices.forEach(v=>{try{v.stop();}catch{}});context?.close();}
  };
 }

diff --git a/src/Gallery.jsx b/src/Gallery.jsx
@@ -1,8 +1,8 @@
 import React,{useEffect,useRef} from 'react';
 import {createExhibition} from './scene';
-export default function Gallery({api,onReady,onProgress,onError,onRoom,onPick,onHint,onStep,onSeat,onWater}){
- const host=useRef(null),callbacks=useRef({onReady,onProgress,onError,onRoom,onPick,onHint,onStep,onSeat,onWater});callbacks.current={onReady,onProgress,onError,onRoom,onPick,onHint,onStep,onSeat,onWater};
- useEffect(()=>{let engine;const controller=new AbortController();createExhibition(host.current,{ready:()=>callbacks.current.onReady(),progress:(...args)=>callbacks.current.onProgress?.(...args),error:()=>callbacks.current.onError(),room:r=>callbacks.current.onRoom(r),pick:(...a)=>callbacks.current.onPick(...a),hint:h=>callbacks.current.onHint(h),step:()=>callbacks.current.onStep?.(),water:(...args)=>callbacks.current.onWater?.(...args),seat:s=>callbacks.current.onSeat?.(s)},{signal:controller.signal}).then(result=>{if(controller.signal.aborted){result?.dispose();return;}engine=result;api.current=result;}).catch(e=>{if(!controller.signal.aborted){console.error('Gallery initialization failed',e);callbacks.current.onError();}});return()=>{controller.abort();engine?.dispose();api.current=null;};},[]);
+export default function Gallery({api,onReady,onProgress,onError,onRoom,onPick,onHint,onStep,onSeat}){
+ const host=useRef(null),callbacks=useRef({onReady,onProgress,onError,onRoom,onPick,onHint,onStep,onSeat});callbacks.current={onReady,onProgress,onError,onRoom,onPick,onHint,onStep,onSeat};
+ useEffect(()=>{let engine;const controller=new AbortController();createExhibition(host.current,{ready:()=>callbacks.current.onReady(),progress:(...args)=>callbacks.current.onProgress?.(...args),error:()=>callbacks.current.onError(),room:r=>callbacks.current.onRoom(r),pick:(...a)=>callbacks.current.onPick(...a),hint:h=>callbacks.current.onHint(h),step:()=>callbacks.current.onStep?.(),seat:s=>callbacks.current.onSeat?.(s)},{signal:controller.signal}).then(result=>{if(controller.signal.aborted){result?.dispose();return;}engine=result;api.current=result;}).catch(e=>{if(!controller.signal.aborted){console.error('Gallery initialization failed',e);callbacks.current.onError();}});return()=>{controller.abort();engine?.dispose();api.current=null;};},[]);
  return <div className="gallery" ref={host} aria-label="걸어서 관람하는 3D 전시 공간"/>;
 }
 

diff --git a/src/FooterSound.jsx b/src/FooterSound.jsx
@@ -8,7 +8,7 @@ export default function FooterSound({sound}){
   <div id="exhibition-volume" className="footer-volume" popover="auto" aria-label="전시 음량 조절">
    <div className="volume-heading"><label htmlFor="exhibition-volume-range">전체 음량</label><output htmlFor="exhibition-volume-range">{Math.round(sound.volume*100)}%</output><button popoverTarget="exhibition-volume" popoverTargetAction="hide" aria-label="음량 조절 닫기">닫기</button></div>
    <input id="exhibition-volume-range" aria-label="전체 음량" type="range" min="0" max="1" step=".01" value={sound.volume} onChange={e=>sound.changeVolume(Number(e.target.value))}/>
-   <p>배경음 · 영상 · 발소리 · 물소리{!sound.enabled?' · 소리 꺼짐':''}</p>
+   <p>배경음 · 영상 · 발소리{!sound.enabled?' · 소리 꺼짐':''}</p>
   </div>
  </div>;
 }

diff --git a/src/use-sound.js b/src/use-sound.js
@@ -15,6 +15,5 @@ export function useSound(room){
   toggle:()=>controller.current?.setEnabled(state!=='waiting'&&state!=='playing'&&state!=='paused'),
   changeVolume:value=>{setVolume(value);controller.current?.setVolume(value);},
   attachFilm:film=>controller.current?.attachFilm(film),
-  water:(...args)=>controller.current?.water(...args),
   cue:()=>controller.current?.cue(),step:()=>controller.current?.step()};
 }

diff --git a/README.md b/README.md
@@ -35,7 +35,7 @@
 | JavaScript / JSX | 화면 구성, 공간 제어와 조형물 생성 코드 |
 | Three.js / WebGL | 실제 3D 공간·조각·조명·그림자·반사 구현 |
 | CSS / IntersectionObserver / Web Animations API | 반응형 레이아웃, 입장 연출과 스크롤 등장 효과 |
-| Web Audio API | 배경음과 발소리·작품 선택 효과음·분수 물소리 합성 |
+| Web Audio API | 배경음과 발소리·작품 선택 효과음 합성 |
 | Three.js / MediaRecorder / VideoTexture | 오리지널 영상·음악 제작, MP4 인코딩과 3D 스크린 재생 |
 | SVG / GLB | 벡터 로고와 회전 가능한 입체 로고 |
 | Pretendard | 본문과 UI 글꼴 |
@@ -50,7 +50,7 @@ React는 관람에 필요한 UI와 상태를 구성하고, Three.js는 공간과
 - **전시장 설계:** 긴 천창이 있는 중앙 홀, 두 개의 순환 동선, 아이보리 벽과 밝은 석회석 바닥으로 현대적인 갤러리를 구성했습니다. 목재 루버와 벤치, 올리브 식재, 안내 데스크와 전시실 타이포그래피로 공간에 깊이와 머무는 지점을 더했습니다. 지도는 실제 공간의 크기와 연결 경로를 반영합니다.
 - **공간 관람:** 키보드·터치로 열 개의 연결된 방을 이동하고, 드래그로 시선을 조작합니다. 벤치와 상영관 의자 가까이에서 버튼·E로 앉고, 이동 또는 일어나기로 다시 설 수 있습니다. 데스크톱은 Space로 점프하며, 모바일은 조이스틱을 조금 밀면 걷고 끝까지 밀면 달리며, 별도의 버튼으로 점프합니다.
 - **작품 감상:** 회화를 확대하거나 조각을 직접 회전하고, 자동 회전과 시선 초기화를 사용할 수 있습니다. 조각과 회화에는 각각의 형태와 화면에 맞춘 별도의 설명을 제공합니다.
-- **분위기 연출:** 노을·달빛·바다·안개 등 방의 주제에 맞춰 조명의 색, 방향과 부드러움을 달리했습니다. 안으로 서서히 다가오는 입장 화면과 첫 조작부터 시작하는 따뜻한 피아노 계열의 배경음과 또렷한 발소리·효과음으로 전시의 분위기를 구성했습니다. 로비 중앙의 석재 분수에는 흐르는 물막과 잔물결을 더하고, 거리에 따라 물소리가 달라지도록 했습니다.
+- **분위기 연출:** 노을·달빛·바다·안개 등 방의 주제에 맞춰 조명의 색, 방향과 부드러움을 달리했습니다. 안으로 서서히 다가오는 입장 화면과 첫 조작부터 시작하는 따뜻한 피아노 계열의 배경음과 또렷한 발소리·효과음으로 전시의 분위기를 구성했습니다.
 - **2층 상영관:** 지붕과 벽으로 감싼 계단실·연결 통로를 통해 올라가는 상영관입니다. 월넛 벽과 계단식 좌석, 대형 스크린을 구성했습니다. 32개 좌석에 실제로 앉아 낮아진 시점에서 영상을 감상합니다. 영상 재생·일시정지·탐색·처음부터 보기를 제공하고, 입장할 때 영상을 불러오며 다른 공간이나 안내 화면에서는 재생을 쉽니다.
 - **제작 과정 탐색:** 여섯 챕터의 소개 페이지에서 기획과 디자인 과정을 살펴보고, 실제 3D 로고를 조작할 수 있습니다.
 - **다양한 관람 환경:** 데스크톱·태블릿·모바일 화면과 키보드 조작, 시스템의 움직임 감소 설정을 고려했습니다.

diff --git a/ASSET-PROVENANCE.md b/ASSET-PROVENANCE.md
@@ -15,7 +15,6 @@ This project contains a fictional exhibition. Its artist names and artwork descr
 | Music and effects | Project-authored Web Audio synthesis; no downloaded recording |
 | Gallery furniture, oak louvers, olive plants and wall typography | Procedural Three.js geometry and canvas lettering authored for this project in src/gallery-details.js. No external model or additional image assets. |
 | Lobby contemporary wall artwork | Original image generated with OpenAI ImageGen for this project; source design/lobby-afterimage-source.png, production public/art/lobby-afterimage.webp. A decorative feature distinct from the twenty catalog artworks; no external artist work copied. |
-| Lobby fountain | Original procedural Three.js stone geometry, animated water shaders and droplets created for this project. Water ambience is synthesized noise through Web Audio API; no external model, recording or paid asset. |
 | Gallery wall reliefs and room guide panels | Project-authored Three.js relief geometry and Pretendard canvas lettering in src/gallery-wall-curation.js. Each room uses its own theme and the actual sculpture/painting names. |
 | Gallery room and corridor furnishings | Project-authored Three.js plants with instanced leaves, textile rugs, reading tables/lamps, catalogues, ceramic vessels, material consoles, corridor reliefs and rest benches in src/spatial-furnishings.js. No imported models, new image assets or external music. |
 | Second-floor screening hall concept | Generated with OpenAI ImageGen for this project; design/cinema-concept.png is a direction reference, not a runtime screenshot. |
